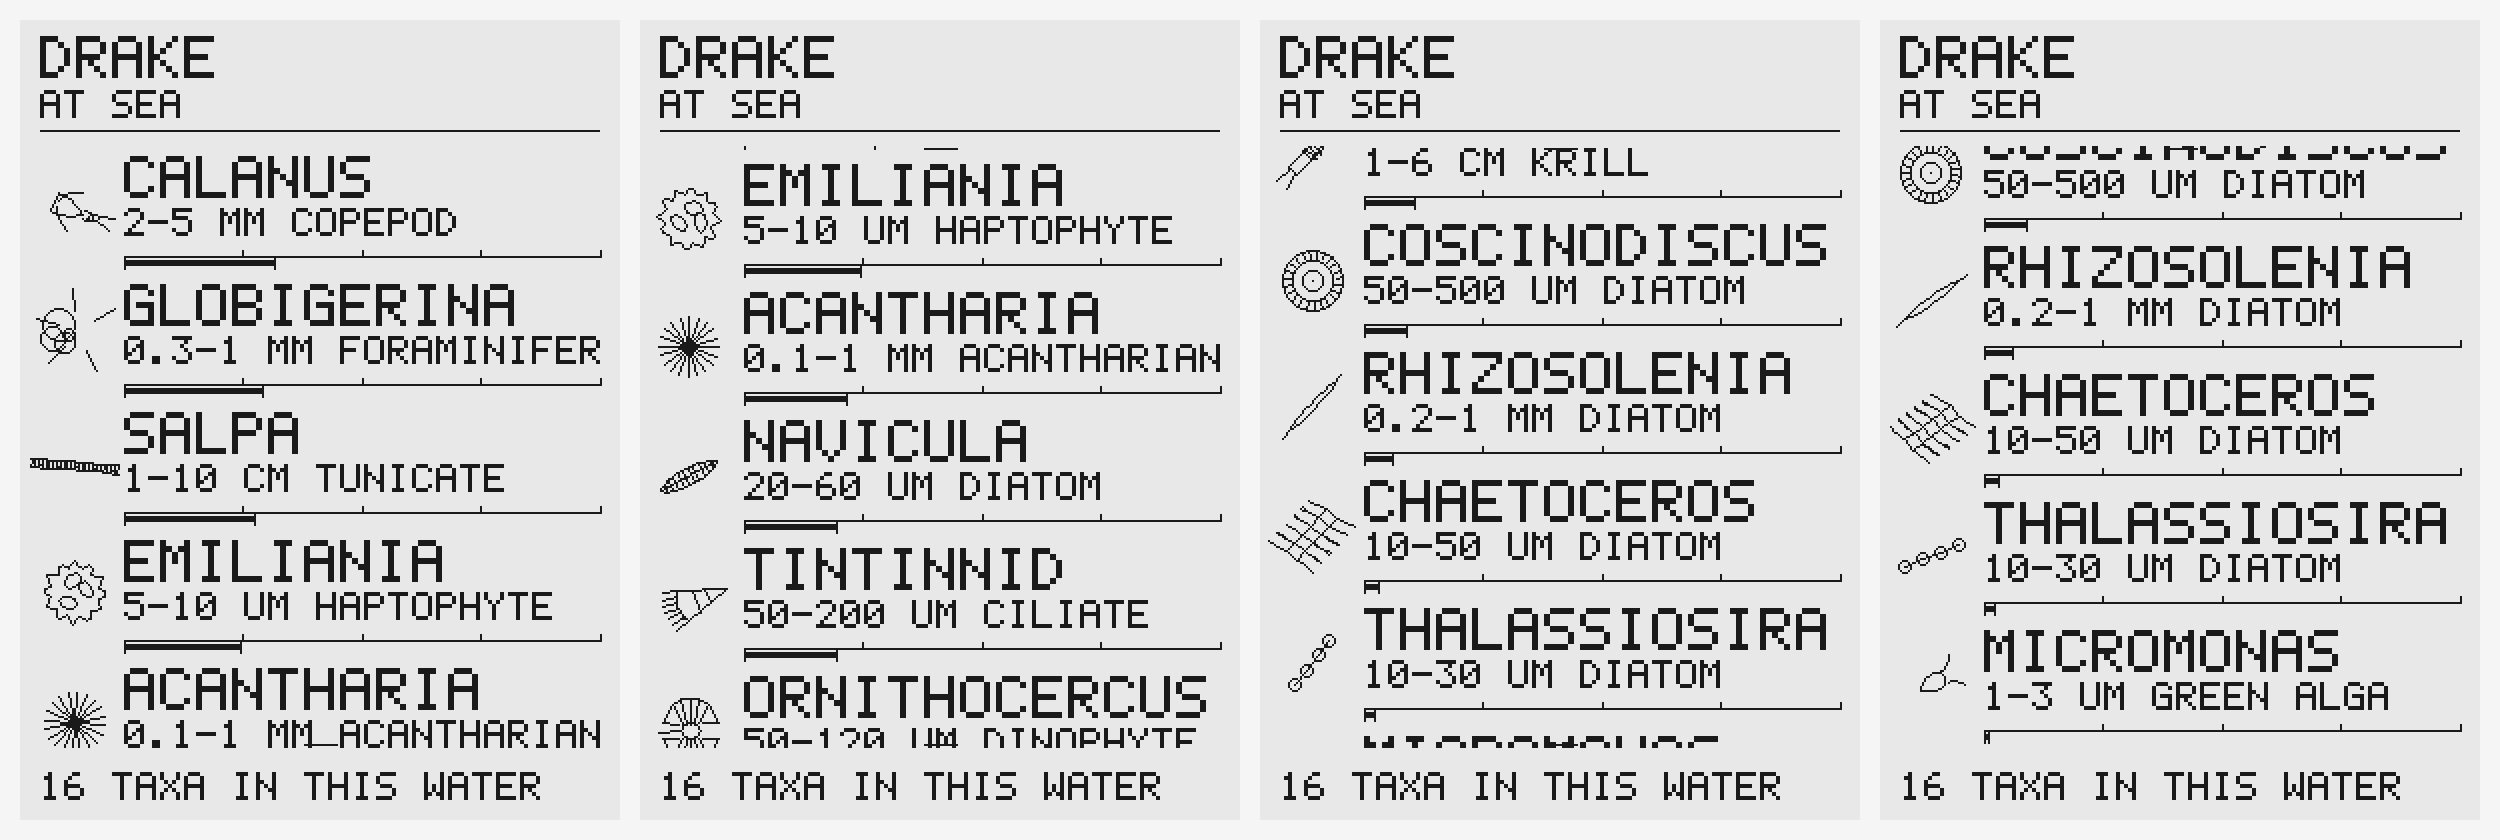
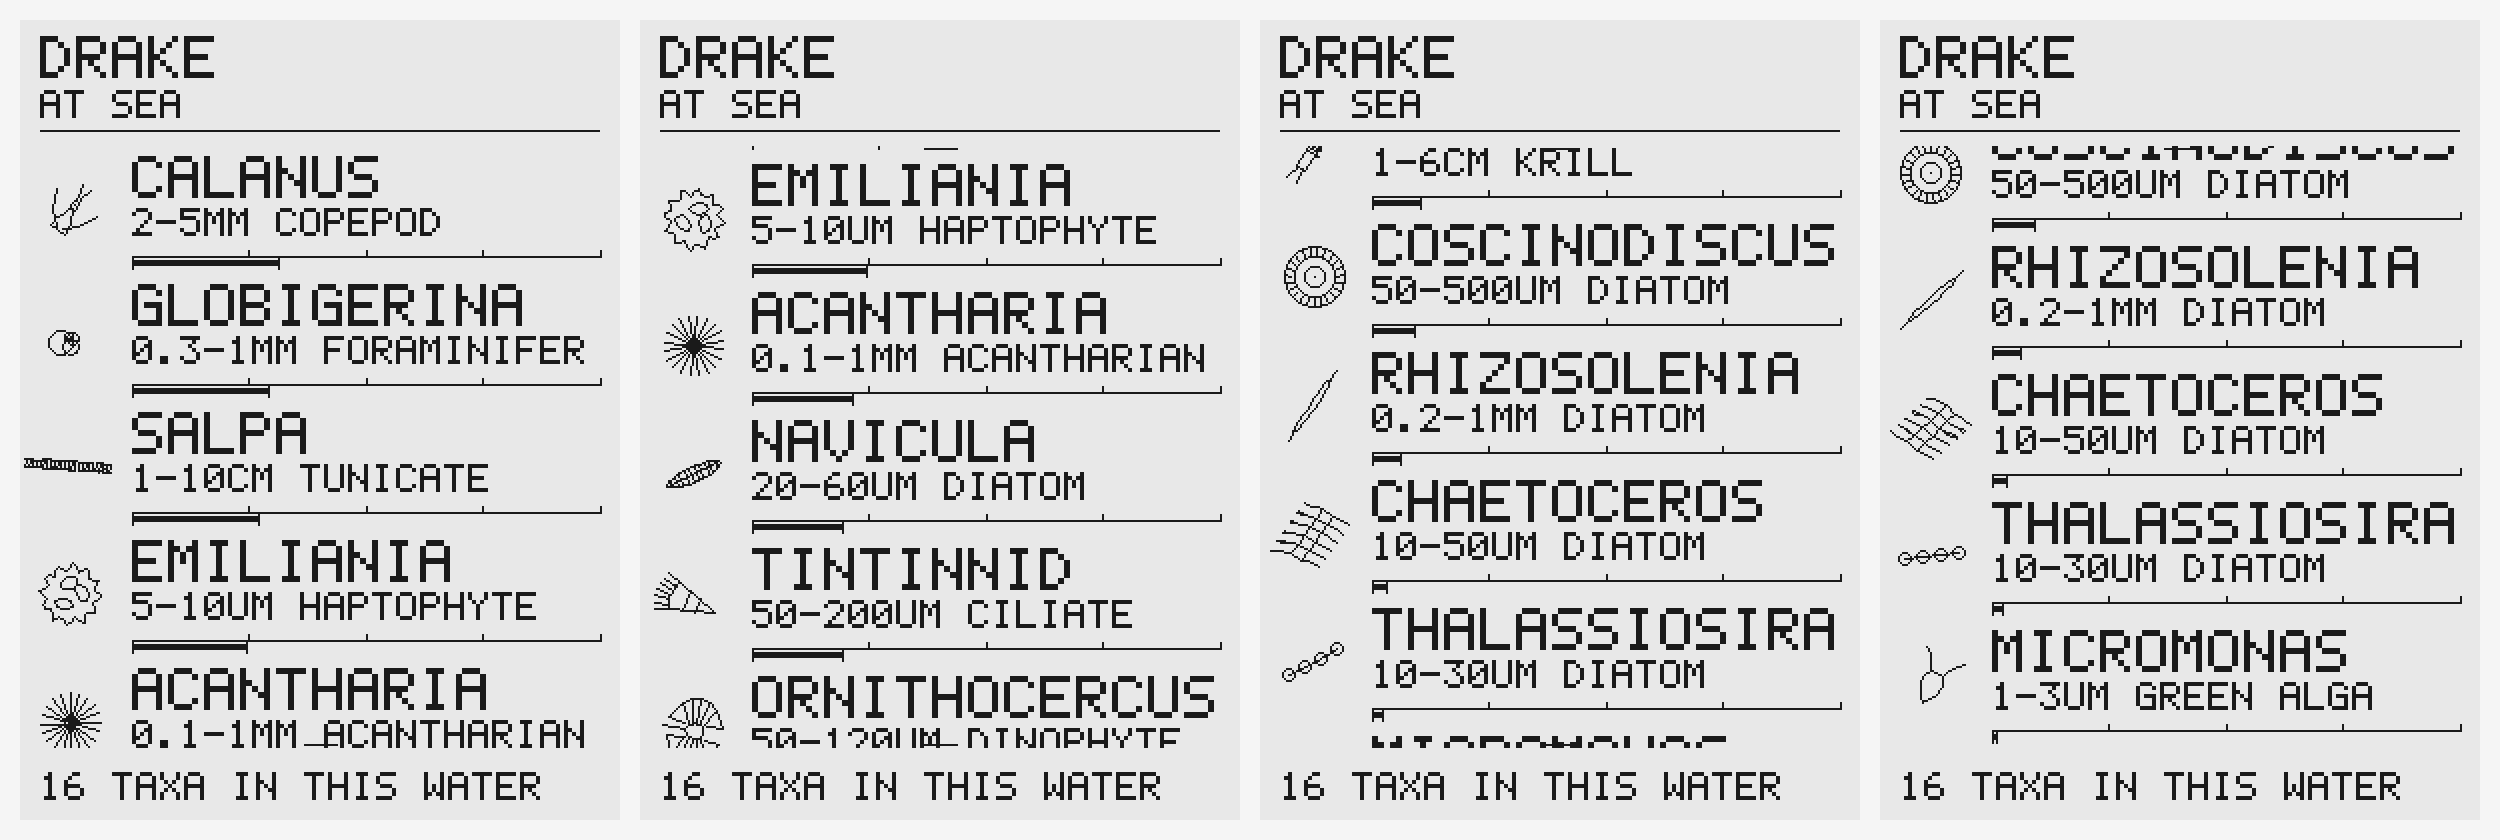
Measure the silhouette instead of guessing it, and open a gutter
A photograph showed the copepod's antenna touching the C of CALANUS. Traced
exactly: the antenna tip reaches 1.5 radii, the sway carries the whole
organism another 0.48, and the total landed at x = 52.8 against a text column
at 52. It overlapped by less than a pixel, which is why it took a photograph
to find.

Two errors. The clamp reserved nothing for the sway -- it sized the specimen
from its static silhouette and then the animation moved the whole thing half
a radius further. And it clamped against EXTENT, the ecosystem's separation
radius, which is isotropic by design and describes a different thing: for the
copepod it read 1.8 radii where the drawing reaches 1.5, so it was too tight,
and for Globigerina it read 2.8 where the drawing reaches 3.54, so that one
had been overflowing its column all along unnoticed.

Each species is now drawn once at import, through a full turn of its own
animation, into a scratch canvas, and the furthest lit pixel from the centre
is its reach. Not an estimate of the silhouette -- the silhouette. 68 ms at
import; on the MCU the measurement runs at build time and what ships is a
table of eighteen numbers.

SWAY_HEADROOM reserves half a radius on top and _specimen saturates the sway
there rather than letting it grow, because the console's slider goes to 4x
and the column does not.

Text moved from x=52 to x=56 and the gutter went from 2 px to 6. Six is
enough BECAUSE the reach is measured: the old gutter did not fail for being
[…]

diff --git a/keyplate.py b/keyplate.py
@@ -65,6 +65,10 @@ NAMES = {
 # the piece exists -- a line of prose underneath it is a second-hand account
 # of something the viewer is already looking at.
 #
+# The unit closes up to the number -- 2-5MM, not 2-5 MM. It buys the one
+# character that lets every line fit at reading size, and it groups the
+# quantity with its unit, which stops the eye parsing "MM COPEPOD".
+#
 # Sizes are hand-written LENGTH ranges rather than the model's equivalent
 # spherical diameters, because ESD is a modelling convenience and a viewer
 # holding a ruler to a krill is measuring its length. This is the one thing a
@@ -73,12 +77,12 @@ NAMES = {
 # and is also, unavoidably, a lie about scale. The caption is where that lie
 # gets corrected, and correcting it is enough work for one line.
 SIZES = {
-    FLAGELLATE: "1-3 UM", COCCO: "5-10 UM", THALASSIO: "10-30 UM",
-    CHAIN: "10-50 UM", PENNATE: "20-60 UM", CORETHRON: "50-100 UM",
-    ORNITHO: "50-120 UM", TINTINNID: "50-200 UM", CENTRIC: "50-500 UM",
-    CERATIUM: "0.1-0.5 MM", RHIZO: "0.2-1 MM", RADIOLARIAN: "0.1-2 MM",
-    ACANTHARIA: "0.1-1 MM", FORAM: "0.3-1 MM", TRICHO: "1-3 MM",
-    COPEPOD: "2-5 MM", KRILL: "1-6 CM", SALP: "1-10 CM",
+    FLAGELLATE: "1-3UM", COCCO: "5-10UM", THALASSIO: "10-30UM",
+    CHAIN: "10-50UM", PENNATE: "20-60UM", CORETHRON: "50-100UM",
+    ORNITHO: "50-120UM", TINTINNID: "50-200UM", CENTRIC: "50-500UM",
+    CERATIUM: "0.1-0.5MM", RHIZO: "0.2-1MM", RADIOLARIAN: "0.1-2MM",
+    ACANTHARIA: "0.1-1MM", FORAM: "0.3-1MM", TRICHO: "1-3MM",
+    COPEPOD: "2-5MM", KRILL: "1-6CM", SALP: "1-10CM",
 }
 
 # Group words, all twelve characters or fewer so that "size GROUP" fits the
@@ -99,14 +103,29 @@ GROUPS = {
 
 ROW_H = 64           # name, size and class, bar
 SPEC_X = 26          # centre of the specimen column
-TEXT_X = 52          # set by the longest lines: COSCINODISCUS is thirteen
-                     # characters at T_BIG and 0.1-2 MM RADIOLARIAN is twenty
-                     # at T_MED, and W - 10 - 52 = 238 holds both with nothing
-                     # to spare. The column is set by the type, not the other
-                     # way round, and every pixel not needed by the type goes
-                     # to the specimen.
+TEXT_X = 56          # set by the longest name: COSCINODISCUS is thirteen
+                     # characters, which at T_BIG is exactly W - 10 - 56.
+                     # The column is set by the type, not the other way
+                     # round, and what the type does not need goes to the
+                     # specimen and to the gutter between them.
 SPEC_HALF = 24       # nothing in the specimen column may reach further than
-                     # this from its centre, or it climbs into the name
+                     # this from its centre. 26 + 24 = 50 against a text
+                     # column starting at 56, so six clear pixels.
+                     #
+                     # Six is enough BECAUSE the reach is now measured rather
+                     # than inferred. The old two-pixel gutter did not fail
+                     # for being narrow, it failed because the number it was
+                     # measured against was wrong -- and a gutter sized to
+                     # absorb an unknown error is just a wider unknown.
+SWAY_HEADROOM = 0.50 # radii of fore-and-aft sway reserved in the clamp.
+                     # This is the term the first version missed. KEY_R was
+                     # clamped against EXTENT, which is the STATIC reach, and
+                     # then the sway moved the whole organism up to half a
+                     # radius further on top of it. Measured on the copepod:
+                     # antenna tip 1.5 radii out, plus 0.48 of sway, landing
+                     # at x = 52.8 against a text column at 52. It touched,
+                     # and it touched by less than a pixel, which is why it
+                     # took a photograph to find.
 # No right-hand number. The bar carries the abundance and the figure beside
 # it was answering a question nobody had: "1.4" is 1.4 times the scarcest any
 # organism ever gets anywhere on the voyage, which is a real quantity, an
@@ -120,12 +139,22 @@ SPEC_HALF = 24       # nothing in the specimen column may reach further than
 # describe a Chaetoceros chain, which is compact across its axis and up to
 # twelve radii long down it. A plate key is a composed object; composing it
 # by hand is the honest way to do it.
-# Hand-set, then clamped. The hand-set value is the one that makes a row
-# look right; the clamp is what stops a Chaetoceros chain -- eight radii long
-# and compact across -- from lying across the species name. EXTENT is the
-# separation radius and is deliberately isotropic, so it overstates the
-# round ones and understates nothing, which makes it the safe thing to clamp
-# against.
+# Hand-set, then clamped to what actually fits. The hand-set value is the one
+# that makes a row look right; the clamp is what stops a Chaetoceros chain --
+# eight radii long and compact across -- from lying across the species name.
+#
+# THE CLAMP MEASURES RATHER THAN GUESSES. The first version clamped against
+# EXTENT, which is the ecosystem's separation radius: isotropic by design,
+# and describing a different thing entirely. For the copepod it read 1.8
+# radii where the drawing reaches 1.5, so it was too tight; for a Chaetoceros
+# chain it reads 8.4 where the drawing reaches rather more. Wrong in both
+# directions, and neither error visible until something touched the type.
+#
+# So each species is drawn once at import, through a full turn of its own
+# animation, into a scratch canvas -- and the furthest lit pixel from the
+# centre is its reach. That is not an estimate of the silhouette, it is the
+# silhouette. On the MCU the same measurement runs at build time and what
+# ships is a table of eighteen numbers.
 _KEY_R_WANT = {
     RADIOLARIAN: 13.0, CENTRIC: 15.0, PENNATE: 16.0, CHAIN: 5.2,
     CERATIUM: 12.0, COPEPOD: 15.0, TINTINNID: 13.0,
@@ -133,8 +162,6 @@ _KEY_R_WANT = {
     CORETHRON: 9.0, ACANTHARIA: 15.0, FORAM: 10.5, ORNITHO: 13.0,
     TRICHO: 9.0, SALP: 5.8, KRILL: 9.5,
 }
-KEY_R = {k: min(r, SPEC_HALF / max(EXTENT.get(k, 1.5), 0.5))
-         for k, r in _KEY_R_WANT.items()}
 
 # --------------------------------------------------------------------------
 # the specimens swim
@@ -289,6 +316,10 @@ def _specimen(c, kind, cx, cy, seed=1, t=0.0):
     g = Genome(kind, rng)
     r = KEY_R.get(kind, 14.0)
     ang, fwd, ph = specimen_pose(kind, t)
+    # saturate rather than collide: the sway slider goes to 4x in the console
+    # and the column does not, so past the reserved headroom the motion stops
+    # growing instead of climbing into the name
+    fwd = max(-SWAY_HEADROOM, min(SWAY_HEADROOM, fwd))
     dx = fwd * r * math.cos(ang)
     dy = fwd * r * math.sin(ang)
     if kind == COPEPOD:
@@ -298,6 +329,36 @@ def _specimen(c, kind, cx, cy, seed=1, t=0.0):
     else:
         DRAW[kind](c, cx + dx, cy + dy, r, ang, g)
 
+
+def _measure_reach(kind, r=10.0, phases=8, pad=110):
+    """How far the drawing actually goes, in radii, over its whole cycle."""
+    c = Canvas(2 * pad, 2 * pad)
+    g = Genome(kind, random.Random(7919 + kind))
+    for i in range(phases):
+        a = BASE_ANG + 2.0 * math.pi * i / phases
+        ph = 2.0 * math.pi * i / phases
+        if kind == COPEPOD:
+            draw_copepod(c, pad, pad, r, a, g, False, phase=ph)
+        elif kind in ANIMATED:
+            DRAW[kind](c, pad, pad, r, a, g, phase=ph)
+        else:
+            DRAW[kind](c, pad, pad, r, a, g)
+    buf = c.buf
+    far = 0.0
+    for y in range(2 * pad):
+        row = y * 2 * pad
+        dy = y - pad
+        for x in range(2 * pad):
+            if buf[row + x]:
+                d = (x - pad) ** 2 + dy * dy
+                if d > far:
+                    far = d
+    return math.sqrt(far) / r
+
+
+REACH = {k: _measure_reach(k) for k in _KEY_R_WANT}
+KEY_R = {k: min(r, SPEC_HALF / max(REACH[k] + SWAY_HEADROOM, 0.5))
+         for k, r in _KEY_R_WANT.items()}
 
 # --------------------------------------------------------------------------
 # abundance, on one absolute scale

diff --git a/plan.md b/plan.md
@@ -1290,6 +1290,36 @@ GREEN ALGA rather than PICOPLANKTON, because picoplankton is a *size* class
 and the size is already on the same line, so it would have been the only
 entry in the table that told you nothing new.
 
+**The clamp now measures instead of guessing.** A photograph of the panel
+showed the copepod's antenna touching the C of CALANUS. Traced exactly: the
+antenna tip reaches 1.5 radii, the sway carries the whole organism another
+0.48, and the total landed at x = 52.8 against a text column at 52. It
+overlapped by less than a pixel, which is why it took a photograph to find.
+
+Two errors, and the second is the interesting one. The clamp reserved nothing
+for the **sway** -- it sized the specimen from its static silhouette and then
+the animation moved the whole thing half a radius further. And it clamped
+against `EXTENT`, which is the *ecosystem's* separation radius: isotropic by
+design and describing a different thing entirely. For the copepod it read 1.8
+radii where the drawing reaches 1.5, so it was too tight; for *Globigerina* it
+read 2.8 where the drawing reaches **3.54**, so that one had been overflowing
+its column all along and nobody had noticed. Wrong in both directions.
+
+So each species is now **drawn once at import**, through a full turn of its
+own animation, into a scratch canvas, and the furthest lit pixel from the
+centre is its reach. That is not an estimate of the silhouette, it is the
+silhouette. 68 ms at import; on the MCU the same measurement runs at build
+time and what ships is a table of eighteen numbers.
+
+`SWAY_HEADROOM = 0.5` radii is reserved on top, and `_specimen` saturates the
+sway at that figure rather than letting it grow -- the console's slider goes
+to 4x and the column does not.
+
+The gutter went from 2 px to 6. Six is enough *because* the reach is measured:
+the old gutter did not fail for being narrow, it failed because the number it
+was measured against was wrong, and a gutter sized to absorb an unknown error
+is just a wider unknown.
+
 **And the abundance figure went.** "1.4" means 1.4 times the scarcest any
 organism ever gets anywhere on the voyage -- a real quantity, an honest one,
 and completely opaque at a glance. The bar with its decade ticks says the same
